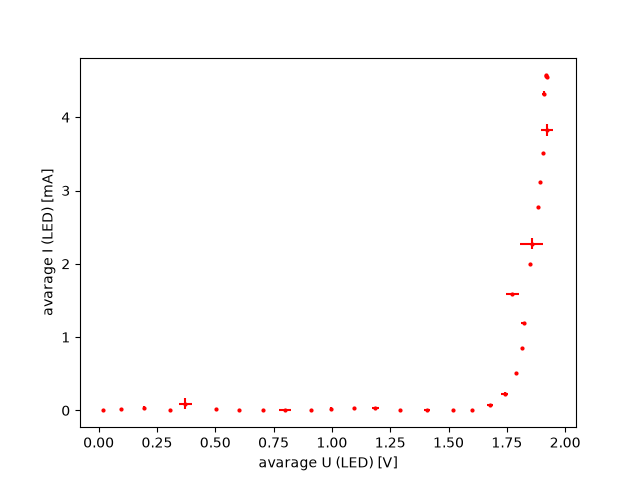
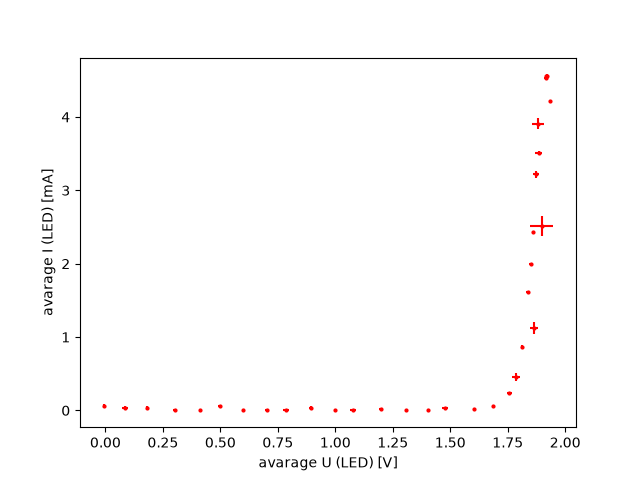
maybe final update (12.11)(11:57)

diff --git a/src/pythondaq/run_experiment.py b/src/pythondaq/run_experiment.py
@@ -10,34 +10,40 @@ from pythondaq.diode_experiment_4 import (
     DiodeExperiment,  # import needed class from diode_experiment
 )
 
-# diode_experiment_4 is a version of the original diode_experiment, but updated to fit new exercise
-device = ArduinoVISADevice(port="ASRL/dev/cu.usbmodem14101::INSTR")
-experiment = DiodeExperiment()
 
-list_mean_U, list_mean_I, err_U, err_I = experiment.errors(3)
+def main():
+    # diode_experiment_4 is a version of the original diode_experiment, but updated to fit new exercise
+    device = ArduinoVISADevice(port="ASRL/dev/cu.usbmodem14101::INSTR")
+    experiment = DiodeExperiment()
 
-with open("final_U_I_LED_with_errors.csv", "w", newline="") as csvfile:
-    """this section of the code makes a csv file and adds all the mean values of current and voltage together with uncertainties in one csv file
-    """
+    list_mean_U, list_mean_I, err_U, err_I = experiment.errors(3)
 
-    writer = csv.writer(csvfile)
-    writer.writerow(["voltage [V]", "error voltage [V]", "current [mA]", "error current [mA]"])
-    for U_mean_csv, I_mean_csv, err_U_csv, err_I_csv in zip(list_mean_U, list_mean_I, err_U, err_I):
-        writer.writerow([U_mean_csv, err_U_csv, I_mean_csv, err_I_csv])
+    with open("final_U_I_LED_with_errors.csv", "w", newline="") as csvfile:
+        """this section of the code makes a csv file and adds all the mean values of current and voltage together with uncertainties in one csv file
+        """
 
-    # na dit blok sluit Python automatisch het bestand
-# print identification string
-print(list_resources())
-identification = device.get_identification()
-print(identification)
+        writer = csv.writer(csvfile)
+        writer.writerow(["voltage [V]", "error voltage [V]", "current [mA]", "error current [mA]"])
+        for U_mean_csv, I_mean_csv, err_U_csv, err_I_csv in zip(list_mean_U, list_mean_I, err_U, err_I):
+            writer.writerow([U_mean_csv, err_U_csv, I_mean_csv, err_I_csv])
 
-# after that it's time to plot our data
-plt.errorbar(list_mean_U, list_mean_I, xerr=err_U, yerr=err_I, fmt="o", color="red", markersize=2)
+        # na dit blok sluit Python automatisch het bestand
+    # print identification string
+    print(list_resources())
+    identification = device.get_identification()
+    print(identification)
 
-plt.xlabel("avarage U (LED) [V]")
-plt.ylabel("avarage I (LED) [mA]")
-# plt.show()
-plt.savefig("IU-LED_final_run_experiment_result.png")
-# turn off the LED
+    # after that it's time to plot our data
+    plt.errorbar(list_mean_U, list_mean_I, xerr=err_U, yerr=err_I, fmt="o", color="red", markersize=2)
 
-device.set_output_voltage(voltage=0)
+    plt.xlabel("avarage U (LED) [V]")
+    plt.ylabel("avarage I (LED) [A]")
+    # plt.show()
+    plt.savefig("final_IU_LED.png")
+    # turn off the LED
+
+    device.set_output_voltage(voltage=0)
+
+if __name__ == "__main__":
+    main()
+

diff --git a/src/pythondaq/diode_experiment_4.py b/src/pythondaq/diode_experiment_4.py
@@ -26,9 +26,7 @@ class DiodeExperiment:
         U_2 = self.device.get_input_voltage(channel=2)  # we determine U in channel 2
 
         U_LED = U_1 - U_2
-        I_LED = (
-            U_2 / 220
-        ) * 1000  # with resistance of 220 Ohm, and current is low, so multiply by 1000
+        I_LED = (U_2 / 220)  # with resistance of 220 Ohm, and current is low, so multiply by 1000
 
         return U_LED, I_LED
 
